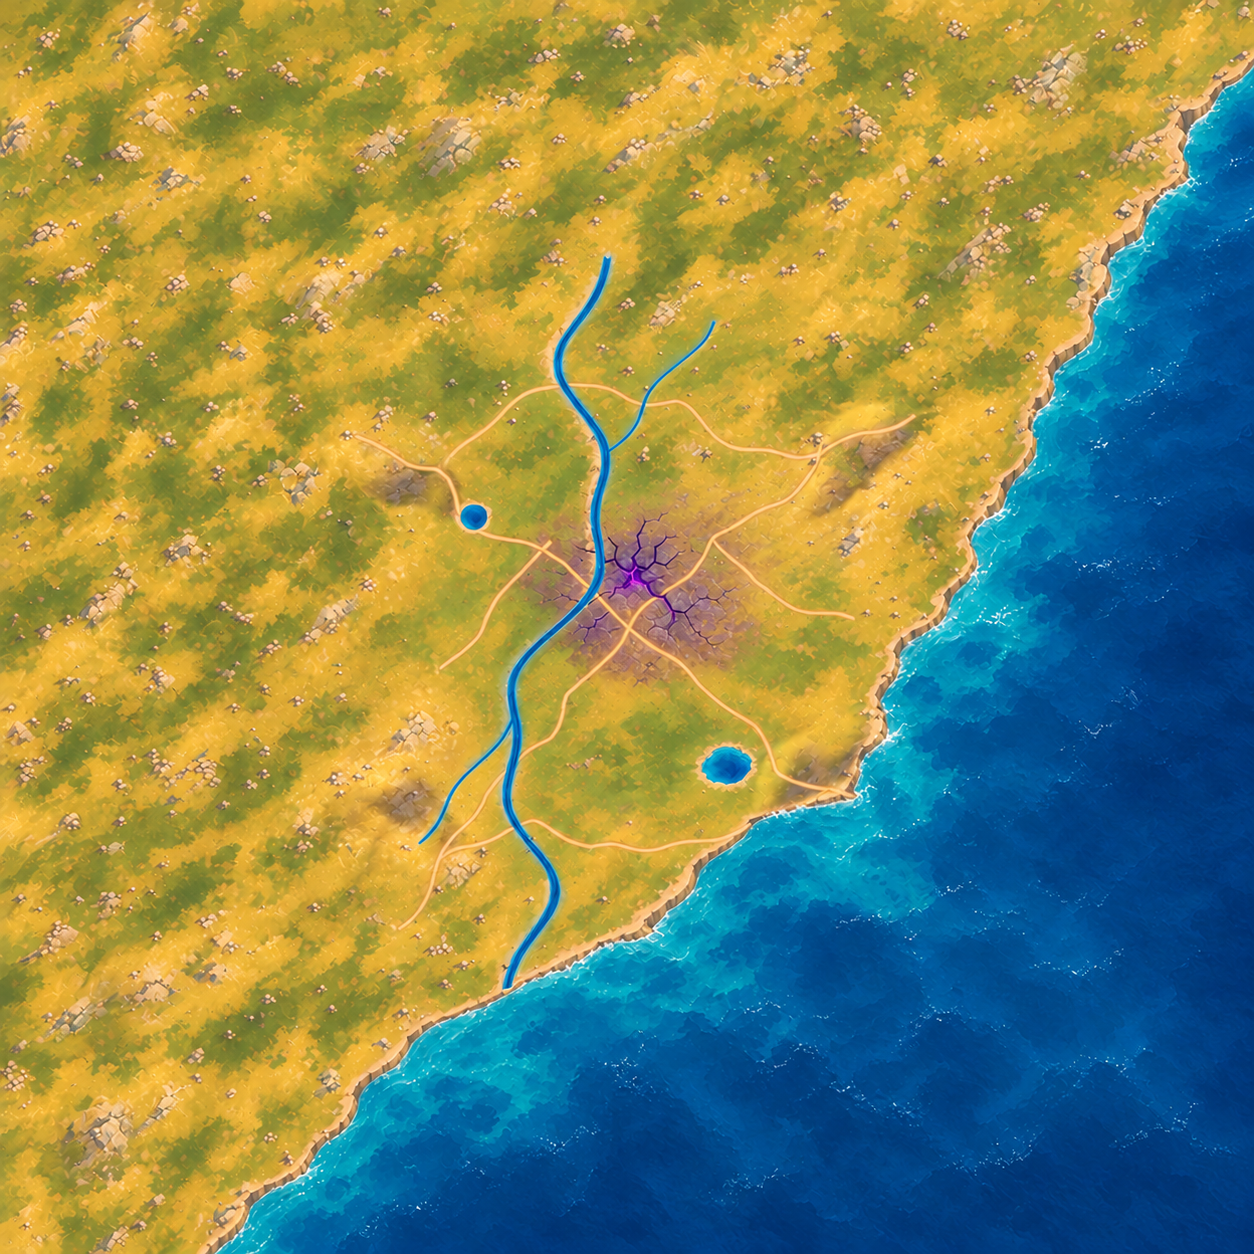
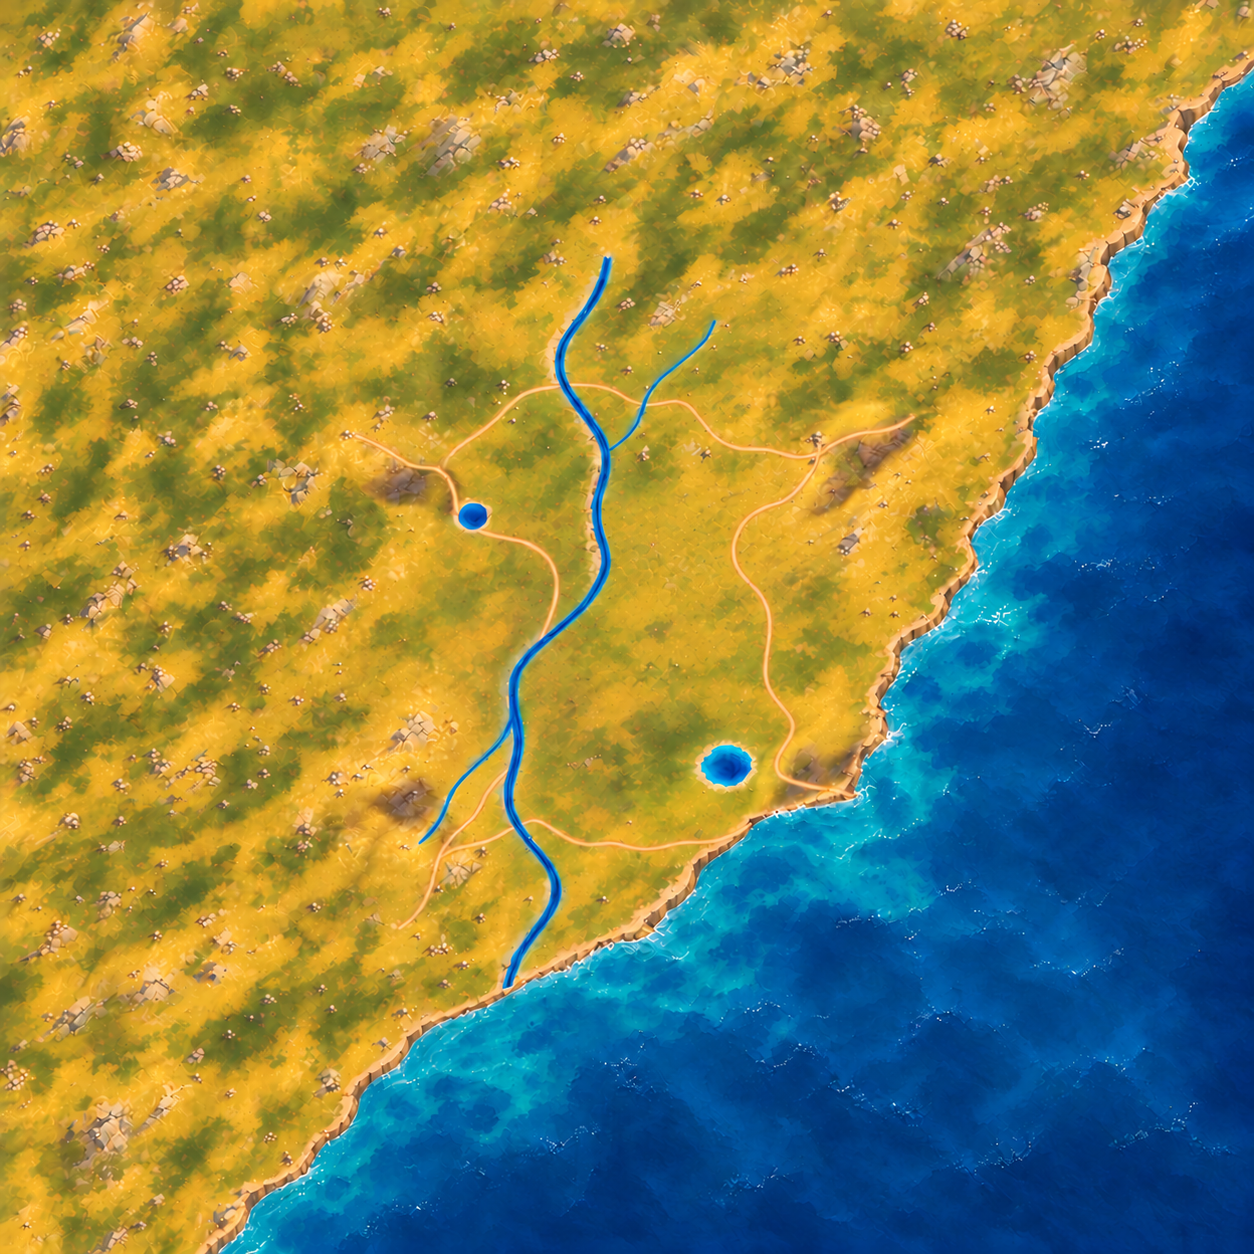
art(world4x): anchor Breach pigment and clear Valoria approach after P0 evaluation

diff --git a/Unity/Assets/Eldoria/World4XCanon/RegionOneCanonicalLandscape.cs b/Unity/Assets/Eldoria/World4XCanon/RegionOneCanonicalLandscape.cs
@@ -68,6 +68,10 @@ namespace Eldoria.World4XCanon
         Texture2D terrainTexture, legacyCompareTexture;
         Texture2D hybridForestAtlas;
         Material surfaceMaterial, riftMaterial, fogMaterial, breachCoreMaterial, breachHaloMaterial;
+        Renderer[] paintedBreachFallbacks;
+        bool compareLegacyAtlas;
+        Renderer paintedBreachRenderer;
+        Material paintedBreachMaterial;
         readonly List<Mesh> generatedMeshes = new List<Mesh>();
         bool built, farMode, fogMode;
         bool ownsTerrainTexture;
@@ -601,6 +605,56 @@ namespace Eldoria.World4XCanon
             coreRenderer.sharedMaterial=breachCoreMaterial;
             coreRenderer.shadowCastingMode=ShadowCastingMode.Off;
             BuildBreachHalo(fracture);
+            paintedBreachFallbacks=fracture.GetComponentsInChildren<Renderer>(true);
+            BuildPaintedBreach(fracture);
+        }
+
+        void BuildPaintedBreach(Transform parent)
+        {
+            // The luminous heart has a measured UV pivot, so image editing
+            // cannot move this independent layer's actual world anchor.
+            var atlas=Resources.Load<Texture2D>("World4X/RegionOneBreachDecal");
+            var shader=Shader.Find("Sprites/Default");
+            if(!atlas || !shader) return;
+            paintedBreachMaterial=new Material(shader){name="Region1 anchored geological pigment"};
+            paintedBreachMaterial.mainTexture=atlas;
+            paintedBreachMaterial.SetColor("_Color",Color.white);
+            paintedBreachMaterial.renderQueue=3001;
+            const int cells=16;
+            const float width=100f;
+            var vertices=new Vector3[(cells+1)*(cells+1)];
+            var uv=new Vector2[vertices.Length];
+            var colors=new Color[vertices.Length];
+            var triangles=new int[cells*cells*6];
+            for(int z=0;z<=cells;z++)
+            for(int x=0;x<=cells;x++)
+            {
+                int i=z*(cells+1)+x;
+                float u=x/(float)cells,v=z/(float)cells;
+                float wx=BreachOffsetX+(u-.505458f)*width;
+                float wz=BreachOffsetZ+(v-.439022f)*width;
+                vertices[i]=new Vector3(wx-BreachOffsetX,SampleHeight(wx,wz)+.09f,wz-BreachOffsetZ);
+                uv[i]=new Vector2(u,v);
+                float dry=RegionOneHybridTerrainArt.IsOpenWater(wx,wz) ? 0f : 1f;
+                float approach=Mathf.SmoothStep(0f,1f,Mathf.InverseLerp(32f,48f,
+                    Mathf.Sqrt(wx*wx+wz*wz)));
+                colors[i]=new Color(1f,1f,1f,dry*approach);
+                if(x==cells || z==cells) continue;
+                int t=(z*cells+x)*6;
+                triangles[t]=i;triangles[t+1]=i+cells+1;triangles[t+2]=i+1;
+                triangles[t+3]=i+1;triangles[t+4]=i+cells+1;triangles[t+5]=i+cells+2;
+            }
+            var mesh=new Mesh{name="Region1 anchored ground scar",vertices=vertices,uv=uv,
+                colors=colors,triangles=triangles};
+            mesh.RecalculateNormals();mesh.RecalculateBounds();generatedMeshes.Add(mesh);
+            var go=new GameObject("Region1 · authored Breach pigment at actual world anchor");
+            go.transform.SetParent(parent,true);
+            go.transform.position=new Vector3(origin.x+BreachOffsetX,0f,origin.z+BreachOffsetZ);
+            go.AddComponent<MeshFilter>().sharedMesh=mesh;
+            paintedBreachRenderer=go.AddComponent<MeshRenderer>();
+            paintedBreachRenderer.sharedMaterial=paintedBreachMaterial;
+            paintedBreachRenderer.shadowCastingMode=ShadowCastingMode.Off;
+            paintedBreachRenderer.receiveShadows=false;
         }
 
         void BuildBreachHalo(Transform fracture)
@@ -937,10 +991,12 @@ namespace Eldoria.World4XCanon
         /// </summary>
         public void CompareAtlas(bool baseline)
         {
+            compareLegacyAtlas=baseline;
             if (!surfaceMaterial || !terrainTexture) return;
             if (baseline && !legacyCompareTexture)
                 legacyCompareTexture=MakeTerrainTexture(1024);
             var selected=baseline ? legacyCompareTexture : terrainTexture;
+            RefreshForCapture();
             if (surfaceMaterial.HasProperty("_BaseMap"))
                 surfaceMaterial.SetTexture("_BaseMap",selected);
             if (surfaceMaterial.HasProperty("_MainTex"))
@@ -1045,6 +1101,13 @@ namespace Eldoria.World4XCanon
                 material.SetColor("_Color", tint);
             }
             bool hideOldSquare = size >= LocalThreshold;
+            // Independent pigment replaces the duplicate old fracture only
+            // where the painted ground is visible. Near/fallback retains it.
+            bool paintedScar=paintedBreachRenderer && terrainTexture &&
+                terrainTexture.name=="RegionOnePaintedTerrain" && hideOldSquare && !compareLegacyAtlas;
+            if(paintedBreachRenderer) paintedBreachRenderer.enabled=paintedScar;
+            if(paintedBreachFallbacks!=null)
+                foreach(var r in paintedBreachFallbacks) if(r) r.enabled=!paintedScar;
             // Border strips are authored near the complete region's edge.
             // They would cross the middle of the new portrait overview as
             // two straight pale seams. Only show them when the horizontal
@@ -1127,9 +1190,11 @@ namespace Eldoria.World4XCanon
             if (riftMaterial) Destroy(riftMaterial);
             if (breachCoreMaterial) Destroy(breachCoreMaterial);
             if (breachHaloMaterial) Destroy(breachHaloMaterial);
+            if (paintedBreachMaterial) Destroy(paintedBreachMaterial);
             if (fogMaterial) Destroy(fogMaterial);
             foreach (var mat in farForestMaterials) if (mat) Destroy(mat);
             foreach (var mat in farGeologyMaterials) if (mat) Destroy(mat);
         }
     }
 }
+

diff --git a/Unity/Assets/Eldoria/Tests/PlayMode/RegionOneCanonIntegratedAcceptanceTests.cs b/Unity/Assets/Eldoria/Tests/PlayMode/RegionOneCanonIntegratedAcceptanceTests.cs
@@ -212,6 +212,21 @@ namespace Eldoria.Tests
             Assert.That(filter.sharedMesh.normals.Count(n => n.y > .5f), Is.GreaterThan(80),
                 "Surface cracks must face the top-down strategy camera, never backface-culled.");
             Assert.That(fracture.GetComponentsInChildren<Collider>(true), Is.Empty);
+            var pigment=fracture.Find("Region1 · authored Breach pigment at actual world anchor");
+            Assert.That(pigment,Is.Not.Null,"The painted scar must have an independent world anchor.");
+            var scar=pigment.GetComponent<MeshRenderer>();
+            var home=(Vector3)Member(host,"WorldHome");
+            Assert.That(scar.transform.position.x-home.x,Is.EqualTo(8f).Within(.01f));
+            Assert.That(scar.transform.position.z-home.z,Is.EqualTo(61f).Within(.01f));
+            Assert.That(scar.bounds.size.y,Is.LessThan(8f));
+            Assert.That(scar.sharedMaterial.mainTexture,Is.Not.Null);
+            var adapter=Object.FindObjectsByType<MonoBehaviour>(FindObjectsSortMode.None)
+                .First(x=>x && x.GetType().Name=="RegionOneCanonicalLandscape");
+            Call(navigation,"SetZoomLevel",1,true);
+            Call(adapter,"RefreshForCapture");
+            Assert.That(scar.enabled,Is.True);
+            Assert.That(filter.GetComponent<MeshRenderer>().enabled,Is.False,
+                "Do not superimpose legacy fractures on the authored scar.");
         }
         [UnityTest]
         public IEnumerator PanoramaHidesOldSquareWithoutRemovingWorldGameObjects()
@@ -383,9 +398,7 @@ namespace Eldoria.Tests
                         (0,"panoramica",home),
                         (2,"cercana-recurso-madera",forestFocus),
                         (0,"panoramica-antes-hibrido",home),
-                        (1,"regional-antes-hibrido",home),
-                        (0,"panoramica-p0-mascaras",home),
-                        (1,"regional-p0-mascaras",home)})
+                        (1,"regional-antes-hibrido",home)})
                     {
                         Call(navigation, "SetZoomLevel", stage.Item1, true);
                         Call(navigation, "PanTo", stage.Item3);
@@ -417,7 +430,6 @@ namespace Eldoria.Tests
                         // original gameplay and LOD. Only the diffuse atlas
                         // changes. No owner-reference image is projected.
                         Call(adapter, "CompareAtlas", stage.Item2.EndsWith("-antes-hibrido"));
-                        if(stage.Item2.EndsWith("-p0-mascaras")) Call(adapter,"CompareP0Atlas");
                         var texture = new RenderTexture(format.Item1,format.Item2,24,
                             RenderTextureFormat.ARGB32);
                         var pixels = new Texture2D(format.Item1,format.Item2,TextureFormat.RGB24,false);
@@ -460,8 +472,8 @@ namespace Eldoria.Tests
                         }
                     }
                 }
-                Assert.That(Directory.GetFiles(outdir,"*-unity.png").Length, Is.EqualTo(16));
-                Debug.Log("REGION1_CANON_NATIVE_PLAYER_CAMERA_CAPTURE_PASS views=16 (8 genuine views + 4 old-atlas + 4 P0 mask comparisons) real_scene=1 disposable_gateway=1 physical_iphone=0");
+                Assert.That(Directory.GetFiles(outdir,"*-unity.png").Length, Is.EqualTo(12));
+                Debug.Log("REGION1_CANON_NATIVE_PLAYER_CAMERA_CAPTURE_PASS views=12 (8 genuine views + 4 exact-camera old-atlas comparisons) real_scene=1 disposable_gateway=1 physical_iphone=0");
             }
             finally
             {
@@ -475,3 +487,4 @@ namespace Eldoria.Tests
 
     }
 }
+

diff --git a/Unity/Assets/Eldoria/World4XCanon/Editor/RegionOneCanonicalSourceGate.cs b/Unity/Assets/Eldoria/World4XCanon/Editor/RegionOneCanonicalSourceGate.cs
@@ -17,8 +17,6 @@ namespace Eldoria.World4XCanon.Editor
         [MenuItem("Eldoria/Region 1/Validate canonical world source")]
         public static void Validate()
         {
-            if(Environment.GetEnvironmentVariable("ELDORIA_REGION1_P0_COMPARE")=="1")
-                RegionOneP0BakeAuthorialAtlas.Bake();
             if (RegionOneCanonicalLandscape.LandscapeVersion != 1 ||
                 RegionOneHybridTerrainArt.StyleRevision != 1)
                 throw new InvalidOperationException("Unexpected or missing hybrid-world art style version");
@@ -59,3 +57,4 @@ namespace Eldoria.World4XCanon.Editor
     }
 }
 #endif
+

diff --git a/docs/evidence/world4x-canon-20261022/other-chat-p0/UNITY_VERDICT.md b/docs/evidence/world4x-canon-20261022/other-chat-p0/UNITY_VERDICT.md
@@ -1,0 +1,37 @@
+# Ensayo del otro chat: resultado en Unity
+
+**VISUAL_REJECTED para el atlas entregado.** Conservar las coordenadas editables como fuente de autoría; descartar la superposición de máscaras como acabado.
+
+Separar geografía, pigmentos y distribución es una técnica con fundamento. Esta implementación no aporta la mejora artística solicitada. El descarte afecta al bake ejecutado; no demuestra que un sistema semántico coherente sea inviable.
+
+## Prueba concreta
+
[1 lines of base64/hex data omitted]
+
+Se ejecutó su C# `RegionOneP0BakeAuthorialAtlas.Bake` con los seis PNG originales sobre la base pintada. Única corrección previa: importar máscaras como datos lineales. Cuatro capturas comparativas mantienen cámara, geometría, árboles y gameplay.
+
+- Commit `8620a2e1a105ddb339bf4fec484d63073da4dfd9`.
+- [Unity real, ejecución 39850201753](https://github.com/mt5hjfz2kb-lab/Eldoria-Prewiu/actions/runs/39850201753).
+- Artifact `12456743320`, `region1-canon-native-39850201753`.
+- 7/7 PlayMode, 16 PNG; duración de pruebas 12,6014925 s.
+- Las cuatro parejas regional/panorámica H/V tienen idéntica resolución, zoom, aspecto, posición y objetivo.
+- PNG `*-p0-mascaras-*-unity.png`: ensayo. Pareja sin `-p0-mascaras`: base.
+- El GLB del paquete es una previsualización separada de 21.025 vértices y 41.472 triángulos. No se ha presentado como malla integrada ni como prueba de un sistema completo de relieve y distribución.
+
+## Defectos demostrados
+
+1. Agua y bosque: 20.370 píxeles superan 128/255 en ambas máscaras, el 30,97 % de los 65.768 píxeles de bosque. Unity muestra manchas azules con silueta de copa y grietas coloreadas como agua.
+2. Geografías duplicadas: el bake conserva los ríos/caminos originales y añade recorridos incompatibles.
+3. La protección radial de 90 unidades elimina el centro real de la Brecha (8,61): rift=0 en ese punto. Los ramales quedan separados.
+4. `forest_belts` se escribe en JSON pero no se aplica al generar las máscaras ni los árboles.
+5. El tinte no resuelve relieve, encuadre panorámico ni continuidad entre las tres escalas.
+
+Píxeles que cambian >5/255: panorámica H/V 59,57/63,86 %; regional H/V 50,95/56,05 %. Mide visibilidad del ensayo, nunca calidad.
+
+## Decisión aplicada
+
+Fuentes, máscaras, JSON, bake y pruebas conservados. Se retiran las cuatro capturas experimentales y el bake automático del circuito normal tras evaluar. El atlas P0 nunca se seleccionó por defecto.
+
+Se conserva la idea de capas controladas en coordenadas de mundo. Nuestra continuación separa la Brecha de la pintura base para anclarla exactamente y proteger el acceso de Valoria. No se adoptan las máscaras ambiguas ni su mezcla de geografías.
+
+No hay ART_APPROVED, aprobación del propietario, certificación móvil, publicación ni merge.

diff --git a/docs/evidence/world4x-canon-20261022/ANCHORED_BREACH_AUTHORING.md b/docs/evidence/world4x-canon-20261022/ANCHORED_BREACH_AUTHORING.md
@@ -1,0 +1,9 @@
+# Brecha anclada independientemente
+
+Problema: la pintura anterior invade Valoria y dibuja una red grande de grietas bajo las fracturas geométricas existentes. Dos correcciones generadas desplazaron el centro pese a pedir coordenadas exactas; se descartaron antes de integrar.
+
+Cambio de técnica: fondo sin grieta y pigmento transparente separado. Ambos creados con imagegen integrado, sin créditos externos ni Qwen. Archivos fuente: `exec-0941e0b0-4532-4b89-a84c-fee75beae596.png` y `exec-1cc1b187-9fae-47fe-aa71-ac1a2f1fc205.png`. Prompts: borrar solo la cicatriz violeta del atlas existente; crear una fractura natural cenital y plana, ramas finas, corazón violeta y bordes transparentes, sin portal, objetos ni texto.
+
+Corazón medido en (633,845;703,467) sobre RGBA 1254². Pivote UV (0,505458;0,439022) coloca ese rasgo en el punto real (8,61). Malla de suelo 16×16, 512 triángulos, ancho 100 unidades; sigue el relieve, excluye agua y atenúa el acceso protegido entre radios 32 y 48. Textura importada a 512 píxeles. Vista regional/panorámica utiliza este pigmento y oculta las fracturas antiguas duplicadas. Cerca/fallback conserva geometría anterior. No se añaden colliders ni objetivos jugables.
+
+Prueba requerida: siete PlayMode existentes, aserciones del anclaje y de ausencia de doble fractura, capturas genuinas comparables. La validación física móvil sigue pendiente.
